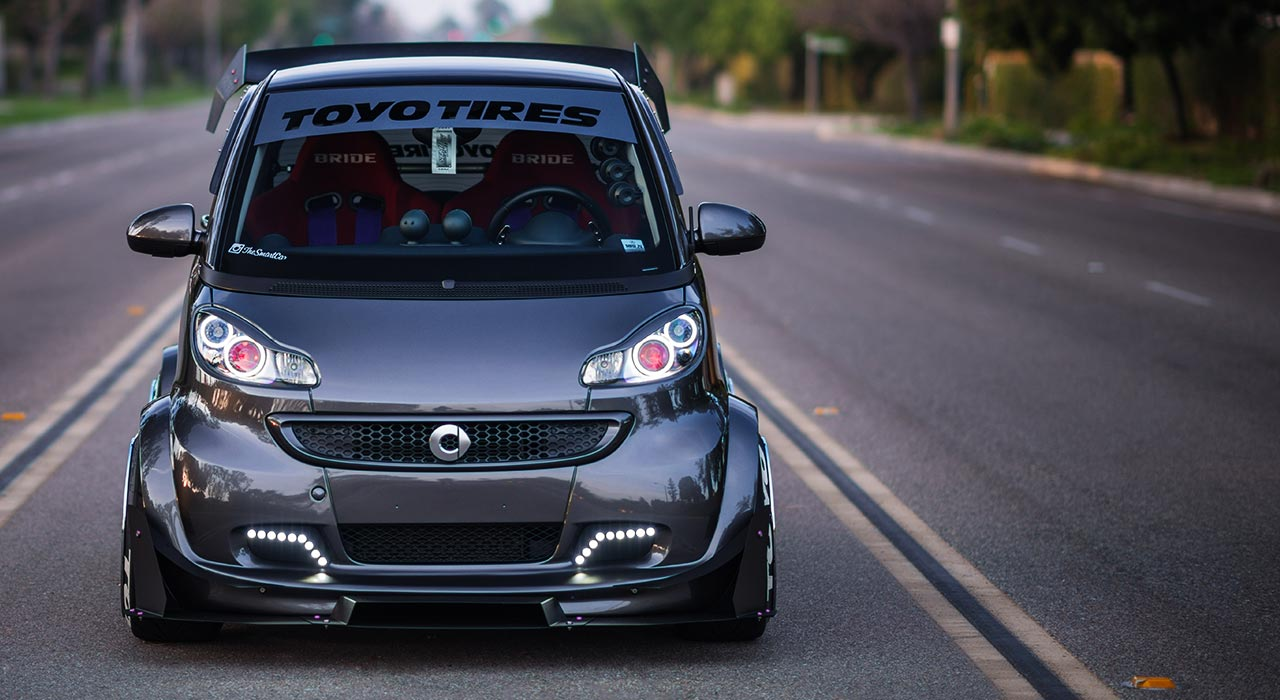
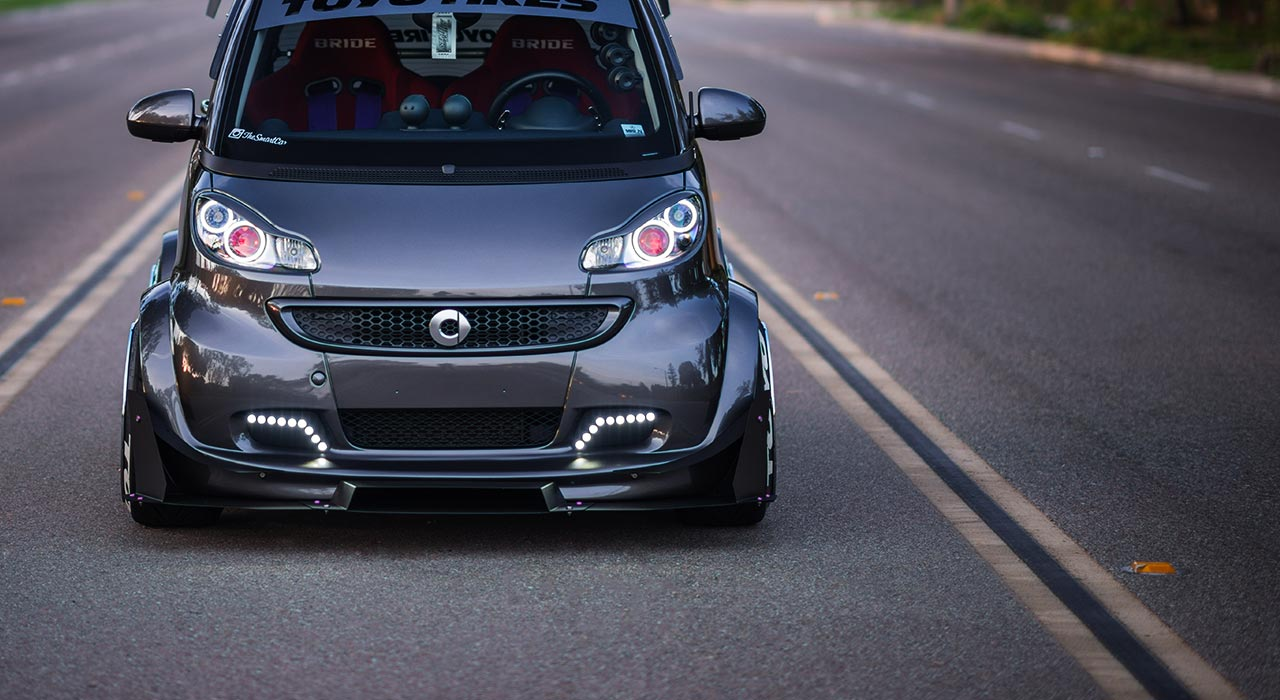
Requests/Changes via Matt
1) Phone number CSS altered
2) Edited DRL hero image
3) The notice message about shipping is going to be removed here, and added as a notification when shopping. Matt will have further notes

diff --git a/css/trs-theme.css b/css/trs-theme.css
@@ -910,7 +910,7 @@ background-image: url(../img/icon-arrowL-88e333.svg); background-position: cente
   .navbar > .container .navbar-brand, .navbar > .container-fluid .navbar-brand { margin-left: -15px; }
   .navbar-brand.logo { height: auto; width: 0; padding: 0; }
   .navbar-brand.logotype { float: left; width: 380px; height: 55px; padding: 28px 0 0 30px; }
-  .header .navbar-utility .navbar-headertext { padding: 32px 20px 0 0; }
+  .header .navbar-utility .navbar-headertext { margin: 32px 20px 0 0; padding: 0;}
   .navbar-split { overflow: hidden; background: linear-gradient(to right bottom, #555 50%, #444 50%); } 
   
   .header .navbar-menu { background-position: center 50%; }
@@ -1020,22 +1020,28 @@ background-image: url(../img/icon-arrowL-88e333.svg); background-position: cente
 @media (min-width:992px) {
   .header .navbar-utility .navbar-utilityLinks li a { font-size: 11px; }
   .header.header-small .navbar-utility .navbar-utilityLinks li a { padding-top: 27px; }
-  .header.header-large .navbar-utility .navbar-headertext { padding: 60px 30px 0 0; width: 100%; }
+  .header.header-large .navbar-utility .navbar-headertext { margin: 60px 30px 0 0; padding: 0; }
 }
 @media (min-width:1200px) {
-  .header .navbar-utility .navbar-utilityLinks { display: block; }
-  .header.header-large .navbar-utility .navbar-headertext, .header.header-small .navbar-utility .navbar-headertext { padding: 10px 30px 0 0; }
+  .header .navbar-utility .navbar-utilityLinks { display: block; padding-left: 80px; }
+  .header.header-large .navbar-utility .navbar-headertext, .header.header-small .navbar-utility .navbar-headertext { margin: 10px 30px 0 0; }
 }
 @media (min-width:1500px) {
   .header .navbar-utility .navbar-utilityLinks { padding-left: 100px; }
 }
+@media (min-width:1650px) {
+  .header .navbar-utility .navbar-utilityLinks { padding-left: 150px; }
+}
 @media (min-width:1750px) {
   .header .navbar-utility .navbar-utilityLinks { padding-left: 200px; }
+}
+@media (min-width:1900px) {
+  .header .navbar-utility .navbar-utilityLinks { padding-left: 250px; }
 }
 @media (min-width:2000px) {
   .header .navbar-utility .navbar-utilityLinks { padding-left: 300px; }
 }
-@media (min-width:2300px) {
+@media (min-width:2200px) {
   .header .navbar-utility .navbar-utilityLinks { padding-left: 400px; }
 }
 /*.navbar-form { padding: 0; margin: 0; border: none; -webkit-box-shadow: none; box-shadow: none; }

diff --git a/shared/header.html b/shared/header.html
@@ -3,11 +3,11 @@
     <header class="navbar navbar-fixed-top">
         <!-- For Homepage Only -->
         
-        <div class="alert alert-dismissable">
+        <!-- <div class="alert alert-dismissable">
             <div type="button" class="close btn btn-empty" data-dismiss="alert"><span class="icon icon-notificationX"></span></div>
             <ul class="messages"><li class="notice-msg"><ul><li><span>WE OFFER FREE STANDARD SHIPPING ON ORDERS OVER $100!</span></li></ul></li></ul>
-            <!-- <ul class="messages"><li class="success-msg"><ul><li><span>SUCCESS! Product ABC has been added to your cart.</span></li></ul></li></ul> -->
-        </div>
+            <ul class="messages"><li class="success-msg"><ul><li><span>SUCCESS! Product ABC has been added to your cart.</span></li></ul></li></ul>
+        </div> -->
 
         <div id="header" class="header header-large">
             <div class="navbar-default">
